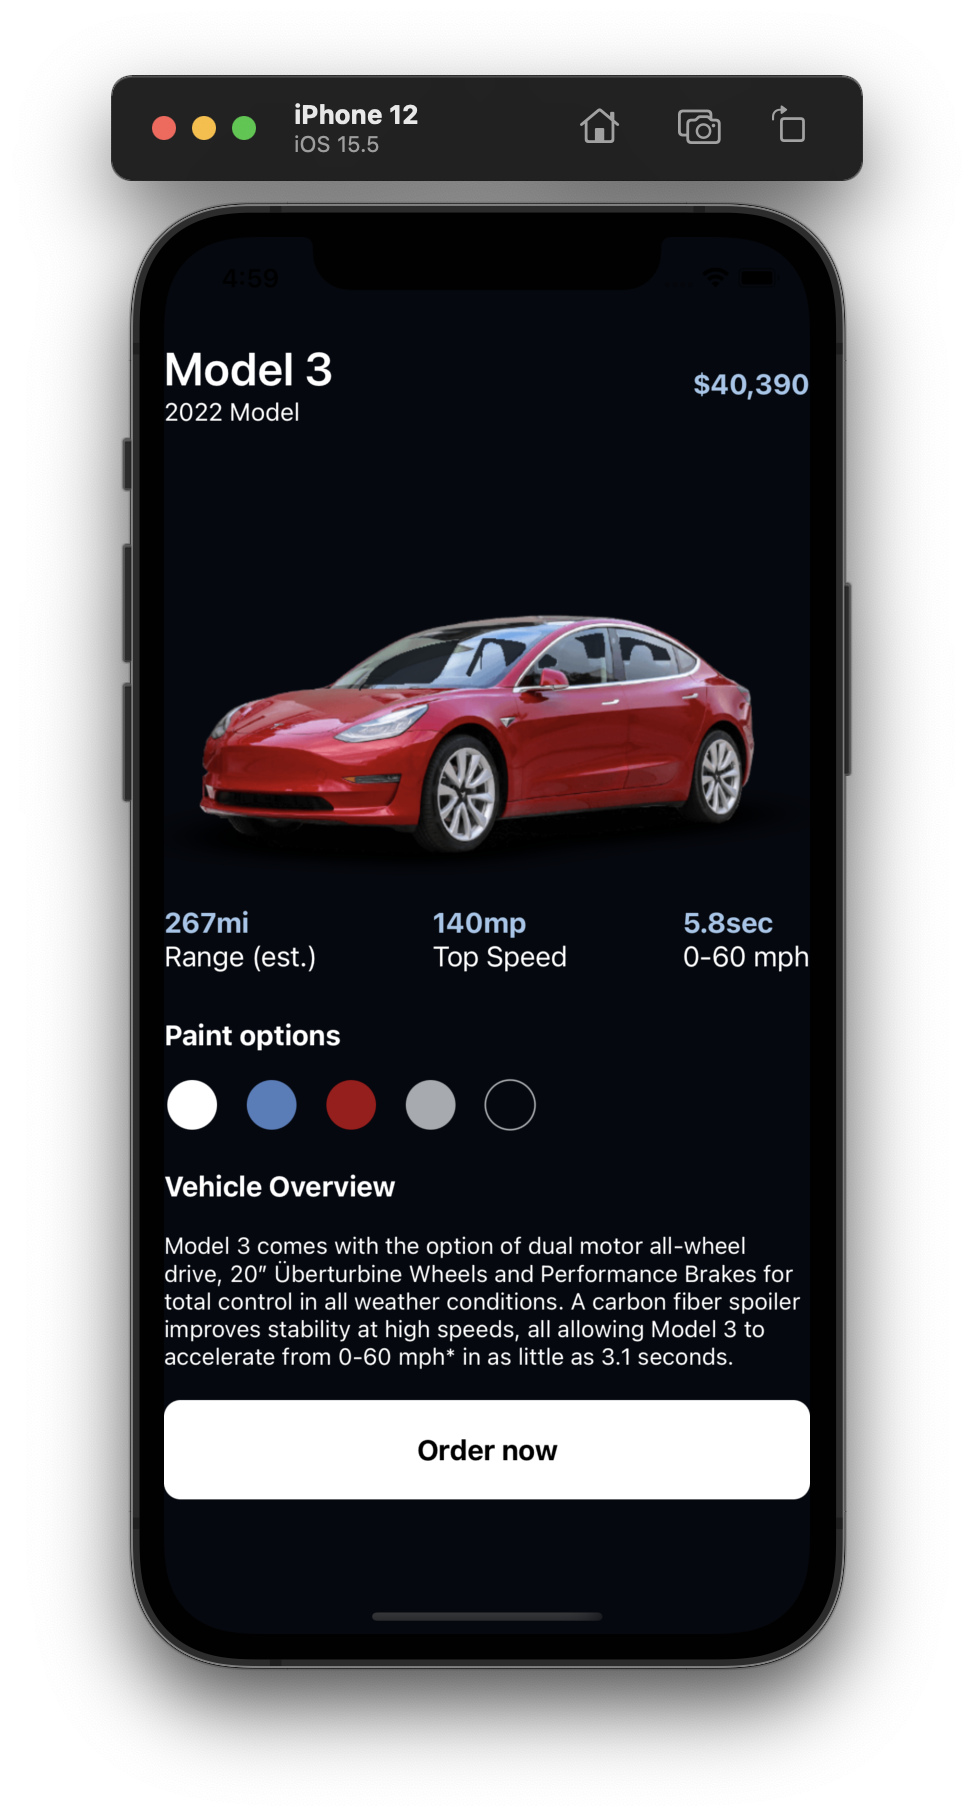
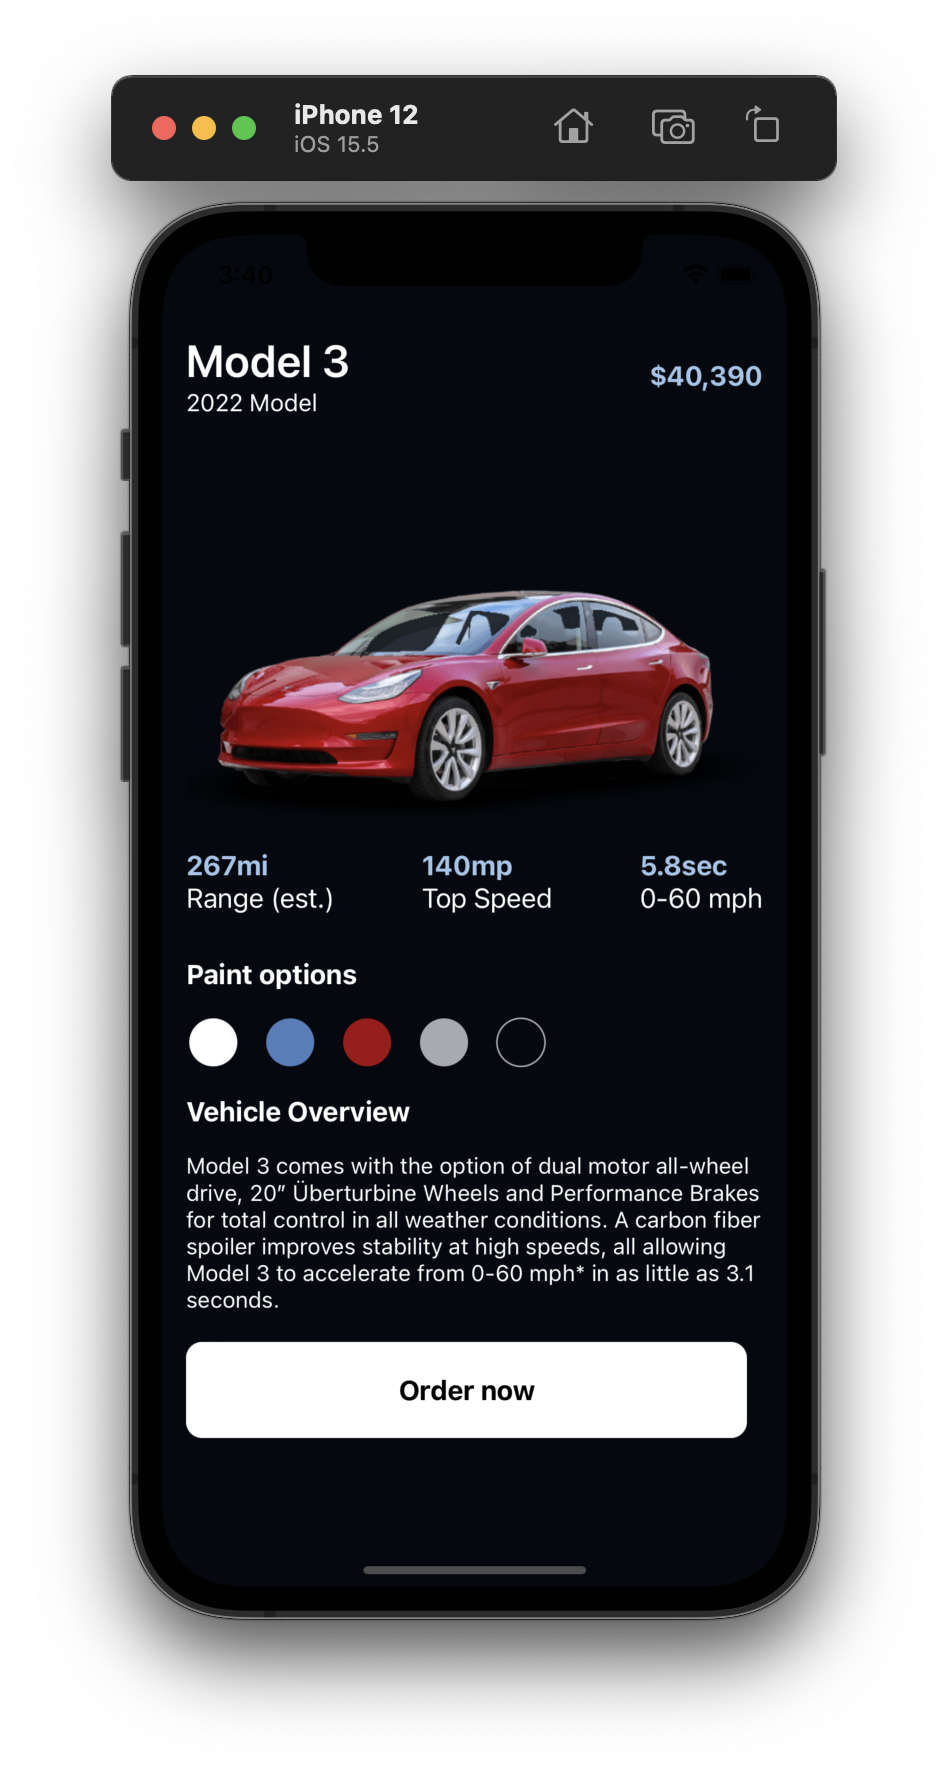
added app screenshots

diff --git a/teslashop/ContentView.swift b/teslashop/ContentView.swift
@@ -20,13 +20,14 @@ struct ContentView: View {
                 // vehicle detailes component
                 VehicleDetailsComponent()
                 
-                
             }
-            .padding()
+            .padding(15)
+            
         }
         .frame(maxWidth:.infinity,maxHeight:.infinity)
         .background(Color("Background"))
         .foregroundColor(Color("White"))
+        
     }
 }
 
@@ -44,17 +45,18 @@ struct VehicleDetailsComponent: View{
                 .padding(.top,3)
                 .padding(.bottom,10)
             
+            Spacer()
             Button(action:{},label:{
                 Text("Order now")
                     .fontWeight(.bold)
             })
-            .frame(width: UIScreen.main.bounds.width, height: 60, alignment: .center)
+            .frame(width: 350, height: 60, alignment: .center)
             .foregroundColor(Color("Black"))
             .background(Color("White"))
             .cornerRadius(10)
             
         }
-        .padding(.top)
+        .padding(.top,10)
     }
 }
 
@@ -69,8 +71,7 @@ struct VehicleComponent: View{
             Image(slectedVehicle)
                 .resizable()
                 .padding(.top)
-                .aspectRatio(contentMode: .fill)
-                .frame(width:UIScreen.main.bounds.width)
+                .aspectRatio(contentMode: .fit)
             
             HStack{
                 VStack(alignment: .leading){
@@ -168,6 +169,7 @@ struct VehicleComponent: View{
 struct HeaderComponent: View{
     var body: some View{
         HStack{
+            
             VStack(alignment: .leading){
                 Text("Model 3")
                     .font(.title)
@@ -175,7 +177,7 @@ struct HeaderComponent: View{
                 Text("2022 Model")
                     .font(.subheadline)
             }
-            
+        
             Spacer()
             HStack{
                 Text("$40,390")
